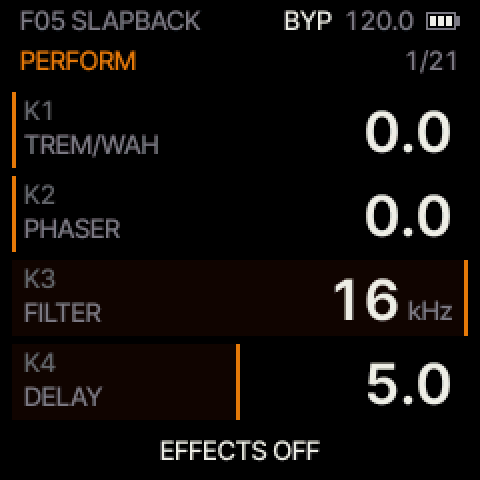
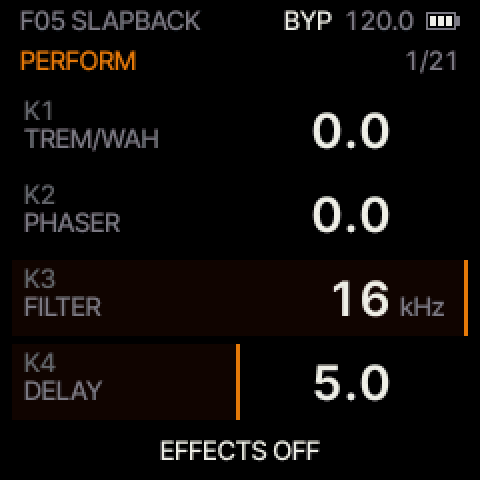
UI: design A is the default (fader fill, selector blocks, switch light), the value face 24 px with room to breathe
The user picked A at 24 px from sizes-A.png, then: "font need to breathe but like the design".
- CC 11's default is 3 (A): amounts the FADER fill (the edge never crosses text), selectors one block per option lit
  up to the option (over 16 options only the blocks' caps), ON / OFF a lit dot / a ring. CC 11 keeps 0 (the rows
  before the design pass), 1 FADER, 2 LINE, 4 B (pips), 5 C (BACK) for comparing on the FM-1 (not saved).
- The large face is 24 px by default (aatext.c UI_VAL_PX; 25 and 28 still build); the 28 px AF_L leaves the image.
- Breathing room (UI_BREATHE, on with 24 px): +0.75 px between the value's letters (aatext.c AA_L_TRACK16, the
  large face only: values, the TYPE flash, the splash), the value 4 px further from the right edge (right margin
  12 px), the unit 5 px after the number (was 3), 14 px at least between the label and the value (was 12). The
  rows keep 38 px (4 cards + header + footer fill the 240 px): the 24 px capitals already have 10 px above and below.
  Compared in private/ui-simplify/design-pass/breathe.png (tools/cards_sheet.py --breathe).
- Short forms now (fitscan): only on ASSIGN: TREM/WAH -> TRM/WAH, COMP MKUP -> CMP GAIN, TREM RATE -> TRM RATE,
  TREM SHAPE -> TRM SHP, PHA SPEED -> PHA SPD, PHA FEEDBK -> PHA FDBK, CHO SPEED -> CHO SPD, DLY FEEDBK -> DLY FDBK;
  every TYPE name in full.
- Merged main (beb976e: 9 voices, the All Notes Off fixes); README conflict resolved (9 voices + the new card text).
[…]

diff --git a/tests/py/test_ui_cards.py b/tests/py/test_ui_cards.py
@@ -36,18 +36,23 @@ W, RH = 228, 38                                                   # ui.c RW_W, R
 STYLE = {1: {"amount": "F", "select": "F", "toggle": "F"}, 2: {"amount": "L", "select": "L", "toggle": "L"},
          3: {"amount": "F", "select": "S", "toggle": "D"}, 4: {"amount": "F", "select": "P", "toggle": "D"},
          5: {"amount": "F", "select": "S", "toggle": "B"}}
-# every value written in its short form (ui.c CD_LONG / CD_SHORT) at 28 px: (page, label, short form)
-SHORT = {("FRODHES", "TYPE", "FELT"), ("FRODHES", "TYPE", "DYNO")} | {("ASSIGN", "PLAYS", s) for s in
-                                          ("TRM/WAH", "CMP THR", "CMP GAIN", "TRM RATE", "TRM SHP", "PHA SPD",
-                                           "PHA FDBK", "CHO SPD", "DLY FDBK")}
+# every value written in its short form (ui.c CD_LONG / CD_SHORT) in the default build (24 px, breathing):
+# (page, label, short form); the other sizes: no value that does not fit
+SHORT = {("ASSIGN", "PLAYS", s) for s in ("TRM/WAH", "CMP GAIN", "TRM RATE", "TRM SHP", "PHA SPD", "PHA FDBK",
+                                          "CHO SPD", "DLY FDBK")}
+DEF_PX = 24                                                       # aatext.c UI_VAL_PX
 KEYS = M.KEYS + [f"rowbox{k}" for k in range(4)] + ["cards"]
 SYNC_NAMES = {"1/32", "16T", "1/16", "8T", "16D", "1/8", "4T", "8D", "1/4", "4D", "1/2", "1/1", "2BAR", "4BAR"}
 LOOK_C = [False]
 
 
+def type_lines(cc_n, v):
+    return [cc(100, cc_n, v)]
+
+
 def binary(px):
-    """the host build with the large face at px (28: the normal one)"""
-    if px == 28:
+    """the host build with the large face at px (DEF_PX: the normal one)"""
+    if px == DEF_PX:
         hostrun.build()
         return hostrun.BIN
     b = os.path.join(hostrun.ROOT, "build", "host", f"frodhes_v{px}")
@@ -60,12 +65,12 @@ def binary(px):
     return b
 
 
-def run(tag, lines, end, px=28):
+def run(tag, lines, end, px=DEF_PX):
     return hostrun.run(tag, lines, end, binary=binary(px), check=False)
 
 
-def walk(tag, cc_n, v, variant, turns=None, look=None, px=28):
-    L, t, visits = [cc(50, 11, variant)] + ([cc(60, 2, look)] if look else []) + M.type_lines(cc_n, v), M.T0, []
+def walk(tag, cc_n, v, variant, turns=None, look=None, px=DEF_PX):
+    L, t, visits = [cc(50, 11, variant)] + ([cc(60, 2, look)] if look else []) + type_lines(cc_n, v), M.T0, []
     for i in range(M.NWALK):
         if i:
             L.append(f"{t} turn 0 1"); t += M.STEP
@@ -228,7 +233,7 @@ def check_page(im, s, where, variant):
 _pages = {}
 
 
-def pages(name, cc_n, v, variant, px=28):
+def pages(name, cc_n, v, variant, px=DEF_PX):
     key = (name, variant, px)
     if key not in _pages:
         _pages[key] = walk(f"cards{variant}_{px}_{name}", cc_n, v, variant, px=px)
@@ -250,26 +255,26 @@ def every_page(name, cc_n, v, variant, px):
 @pytest.mark.parametrize("variant", [1, 2, 3, 4, 5], ids=[NAMES[i] for i in range(1, 6)])
 @pytest.mark.parametrize("name,cc_n,v", TYPES3, ids=[t[0] for t in TYPES3])
 def test_cards_every_page(name, cc_n, v, variant):
-    """every page at its defaults, then with each knob turned (amounts +9, choices +1), 28 px"""
-    every_page(name, cc_n, v, variant, 28)
+    """every page at its defaults, then with each knob turned (amounts +9, choices +1), the default face"""
+    every_page(name, cc_n, v, variant, DEF_PX)
 
 
-@pytest.mark.parametrize("px", [25, 24])
+@pytest.mark.parametrize("px", [25, 28])
 @pytest.mark.parametrize("variant", [3, 4, 5], ids=["A", "B", "C"])
 @pytest.mark.parametrize("name,cc_n,v", [M.TYPES[2], M.TYPES[4]], ids=["FELT", "VIBE"])
 def test_cards_every_page_small_faces(name, cc_n, v, variant, px):
-    """the same at the smaller value faces (-10 %, -15 %)"""
+    """the same with the other value faces (25, 28 px)"""
     every_page(name, cc_n, v, variant, px)
 
 
-@pytest.mark.parametrize("px", [28, 24])
+@pytest.mark.parametrize("px", [24, 28])
 @pytest.mark.parametrize("variant", [1, 2, 3, 4, 5], ids=[NAMES[i] for i in range(1, 6)])
 def test_cards_every_choice_option(variant, px):
     """every choice card of both engines through every option: each drawn by its kind's rule at each option"""
     errs, n = [], 0
     for name, cc_n, v in (M.TYPES[0], M.TYPES[4]):
         ps = pages(name, cc_n, v, variant, px)
-        L, t, marks = [cc(50, 11, variant)] + M.type_lines(cc_n, v), M.T0, []
+        L, t, marks = [cc(50, 11, variant)] + type_lines(cc_n, v), M.T0, []
         for i, (_, _, s) in enumerate(ps):
             if i:
                 L.append(f"{t} turn 0 1"); t += 400
@@ -326,16 +331,14 @@ def test_cards_other_looks(variant, look):
 @pytest.mark.parametrize("variant", [1, 3, 4, 5])
 def test_fitscan(variant, px):
     """every value of every card (every TYPE, the switches as they are and all on, the synced note values) fits the
-    large face, the LED's place too; the short forms used are SHORT (28 px; the smaller faces need fewer)"""
+    large face, the LED's place too; the short forms used are SHORT in the default build"""
     r = run(f"cards_fitscan{variant}_{px}", [cc(50, 11, variant), f"{M.T0} expect state fitscan 0"], M.T0 + 50, px)
     bad = re.findall(r"^FITSCAN BAD (.*)$", r.out, re.M)
     assert not bad, sorted(set(bad))[:40]
     assert 'ok   expect state fitscan' in r.out, r.out[-2000:]
     got = set(re.findall(r"^FITSCAN SHORT (\S+)(?: \d)? K\d (.+?) = (.+?) -?\d+ -?\d+$", r.out, re.M))
-    if px == 28:
+    if px == DEF_PX:
         assert got == SHORT, (sorted(got - SHORT), sorted(SHORT - got))
-    else:
-        assert got <= SHORT, sorted(got - SHORT)
     print(f"{NAMES[variant]} {px} px short forms: {sorted(got)}")
 
 
@@ -344,7 +347,7 @@ def test_cards_hot_frame(variant):
     """turn K1..K4 on REVERB one at a time: that row alone framed with an amber label while turned, none at 1.5 s"""
     ps = pages("ST77", 80, 8, variant)
     pos = [M.title_of(s) for _, _, s in ps].index("REVERB")
-    L, t = [cc(50, 11, variant)] + M.type_lines(80, 8), M.T0
+    L, t = [cc(50, 11, variant)] + type_lines(80, 8), M.T0
     for _ in range(pos):
         L.append(f"{t} turn 0 1"); t += 100
     t += 500
@@ -375,7 +378,7 @@ def test_cards_hot_frame(variant):
     assert not errs, "\n".join(errs)
 
 
-def test_default_is_today():
-    """no CC 11: the rows as today (cards 0)"""
-    r = run("cards_default", [f"{M.T0} expect state cards 0"], M.T0 + 50)
+def test_default_is_a():
+    """no CC 11: A (cards 3), the user's pick"""
+    r = run("cards_default", [f"{M.T0} expect state cards 3"], M.T0 + 50)
     assert 'ok   expect state cards' in r.out, r.out[-1500:]

diff --git a/firmware/src/ui.c b/firmware/src/ui.c
@@ -205,20 +205,21 @@ static const mt_look_t MT_LOOKS[] = {
 static uint8_t ui_look;                                 /* developer CC 2 (not saved) */
 /* the design pass (2026-10-18, private/ui-simplify/design-pass/): the rows' typography and meter, three variants for
  * the user to choose from; developer CC 11 (not saved), the default by build (APP_DEFS=-DUI_CARDS_DEF=n):
- *   0 TODAY   the rows as they are (the default until the user picks);
+ *   0 TODAY   the rows before the design pass (kept for comparing on the FM-1);
  *   1 FADER   the row's amber fill (the METERS look) on every card, a choice's too (its option's place in its list,
  *             OFF empty); one value size, one value edge, one baseline; the fill's bright edge stops 3 px short of
  *             any text (above and below it), so nothing crosses a digit or a letter; no edge at 0;
  *   2 LINE    the same typography with no fill: a 3 px meter line along each row's bottom, amber for the amount;
  * then the card kinds told apart at a glance (the user: "not clear what is a toggle or selector and what is a fader"),
  * an amount always the FADER fill:
- *   3 A       selectors SEGMENTS (one block per option, 2 px apart, lit up to the option), toggles LED (a dot before
+ *   3 A       THE DEFAULT (the user's pick, 2026-10-18): selectors SEGMENTS (one block per option, 2 px apart, lit up to the option), toggles LED (a dot before
  *             ON / OFF: lit ON, a ring OFF);
  *   4 B       selectors PIPS (one small pip per option under the value, the option's amber), toggles LED;
  *   5 C       selectors SEGMENTS, toggles BACK (the whole card lit ON, nothing OFF, no edge).
- * The large face's size is the build's (aatext.c UI_VAL_PX: 28, 25, 24). */
+ * The large face's size is the build's (aatext.c UI_VAL_PX: 24 the default, 25, 28), and its breathing room
+ * (UI_BREATHE: 1 the default, 0 the tighter first version). */
 #ifndef UI_CARDS_DEF
-#define UI_CARDS_DEF 0
+#define UI_CARDS_DEF 3
 #endif
 #define UI_CARDS_N 6u
 static uint8_t ui_cards = UI_CARDS_DEF;
@@ -771,13 +772,13 @@ static void draw_row(uint32_t k)
  *     fraction);
  *   - the turned knob: its label in the accent and the 1 px frame (HOT_MS), as today. */
 #define CD_PAD 6                                        /* the text's margin on the left */
-#define CD_PAD_R 10                                     /* and on the right (after the unit column) */
+#define CD_PAD_R (UI_BREATHE ? 12 : 10)                 /* and on the right (after the unit column) */
 #define CD_UNIT_W 22                                    /* the unit column: "kHz" in AF_S */
-#define CD_UGAP 3
-#define CD_VR ((int32_t)RW_W - CD_PAD_R - CD_UNIT_W - CD_UGAP)   /* 193: where every value ends */
+#define CD_UGAP (UI_BREATHE ? 5 : 3)                    /* between the number and its unit */
+#define CD_VR ((int32_t)RW_W - CD_PAD_R - CD_UNIT_W - CD_UGAP)   /* where every value ends (189; 193 tight) */
 #define CD_BASE (((int32_t)RW_H + AF_L_CAP_H + 1) / 2)  /* the baseline of the label, the value and the unit: the
                                                          * capitals centred in the row (28 px: 30, 25: 29, 24: 28) */
-#define CD_GAP 12                                       /* the least room between the label and the value */
+#define CD_GAP (UI_BREATHE ? 14 : 12)                   /* the least room between the label and the value */
 #define CD_KEEP 3                                       /* FADER: the edge stops this far from any text */
 #define CD_MINSEG 3                                     /* FADER: an edge piece shorter than this is left out */
 #define CD_LINE_H 3                                     /* LINE: the meter line, rows 34 .. 36 (37: the frame) */

diff --git a/tools/cards_sheet.py b/tools/cards_sheet.py
@@ -5,6 +5,8 @@ same pages, in the framebuffer's own colours (tools/manual_shots.py's default), 
 build per size: -DUI_VAL_PX=28 / 25 / 24, aatext.c).
 
   tools/cards_sheet.py [OUT_DIR]     (default private/ui-simplify/design-pass)
+  tools/cards_sheet.py --breathe [OUT_DIR]   only breathe.png: A at 24 px, the tight first version (UI_BREATHE=0)
+                                             next to the breathing one (the default)
 
 Writes to OUT_DIR:
   sheet-<combo>-<px>px.png     the ten pages, one combination at one size (A = SEGMENTS + LED, B = PIPS + LED,
@@ -40,16 +42,17 @@ def font(px):
     return ImageFont.truetype(os.path.join(ROOT, "assets", "fonts", "InterTight[wght].ttf"), px)
 
 
-def host(px):
-    b = os.path.join(ROOT, "build", "host", f"frodhes_v{px}")
+def host(px, breathe=1):
+    b = os.path.join(ROOT, "build", "host", f"frodhes_v{px}" + ("" if breathe else "_tight"))
     subprocess.run(["cc", "-O2", "-Wall", "-Wno-unused-function", "-DDINGHY_HOST", "-DAPP_VER=\"dev\"", f"-DUI_VAL_PX={px}",
-                    "-Ifirmware/src", "-Ifirmware/gen", "-o", b, "firmware/src/frodhes.c", "-lm"], cwd=ROOT, check=True)
+                    f"-DUI_BREATHE={breathe}", "-Ifirmware/src", "-Ifirmware/gen", "-o", b, "firmware/src/frodhes.c",
+                    "-lm"], cwd=ROOT, check=True)
     return b
 
 
-def shoot(n, px):
-    out = os.path.join(ROOT, "build", "design", f"c{n}-{px}")
-    env = dict(os.environ, FRODHES_HOST_BIN=host(px))
+def shoot(n, px, breathe=1):
+    out = os.path.join(ROOT, "build", "design", f"c{n}-{px}" + ("" if breathe else "-tight"))
+    env = dict(os.environ, FRODHES_HOST_BIN=host(px, breathe))
     subprocess.run([sys.executable, os.path.join(ROOT, "tools", "manual_shots.py"), "--cards", str(n), "--out", out],
                    check=True, capture_output=True, env=env)
     return out
@@ -67,9 +70,28 @@ def grid(ims, cols, caps, title, w=480):
     return o
 
 
+BREATHE = [("piano", "FRODHES (Rhodes)"), ("piano-vibes", "FRODHES (VIBES)"), ("voice1-vibes", "VIBES VOICE 1/3")] + CHOICES
+
+
+def breathe(dst):
+    """breathe.png: A at 24 px, the tight first version (UI_BREATHE=0) next to the breathing one"""
+    tight, air = shoot(3, 24, 0), shoot(3, 24, 1)
+    ims, caps = [], []
+    for p, c in BREATHE:
+        for d, t in ((tight, "now"), (air, "breathing")):
+            ims.append(Image.open(os.path.join(d, f"{p}.png")).convert("RGB")); caps.append(f"{c}: {t}")
+    grid(ims, 4, caps, "A at 24 px: now | breathing (+0.75 px between the value's letters, the value 4 px further "
+         "in, the unit 2 px further out, 14 px after the label)").save(os.path.join(dst, "breathe.png"))
+
+
 def main():
-    dst = os.path.abspath(sys.argv[1] if len(sys.argv) > 1 else os.path.join(ROOT, "private", "ui-simplify", "design-pass"))
+    args = [a for a in sys.argv[1:] if not a.startswith("--")]
+    dst = os.path.abspath(args[0] if args else os.path.join(ROOT, "private", "ui-simplify", "design-pass"))
     os.makedirs(dst, exist_ok=True)
+    if "--breathe" in sys.argv:
+        breathe(dst)
+        print(os.path.join(dst, "breathe.png"))
+        return
     src = {}
 
     def get(n, tag, px, page):

diff --git a/firmware/src/aatext.c b/firmware/src/aatext.c
@@ -22,6 +22,17 @@ typedef struct {
 /* the design pass (2026-10-18, the user: "a big font but some margin, maybe 10 % smaller, maybe 15"): a build may set
  * the large face's size, APP_DEFS=-DUI_VAL_PX=25 (-10 %) or 24 (-15 %); the face replaces AF_L everywhere (one large
  * face in the image: AF_L's tables then drop out). Generated by gen_aa_font.py --value-px N. */
+#ifndef UI_VAL_PX
+#define UI_VAL_PX 24                    /* the default since 2026-10-18 (the user picked A at 24 px) */
+#endif
+/* the large face's breathing room (the user: "font need to breathe"): +0.75 px between its letters (AA_L_TRACK16, in
+ * 1/16 px), and in ui.c more room around the value; UI_BREATHE=0 builds the tighter first version (the comparison) */
+#ifndef UI_BREATHE
+#define UI_BREATHE (UI_VAL_PX == 24)        /* (the 25 / 28 px builds keep the tight room: their values need it) */
+#endif
+#ifndef AA_L_TRACK16
+#define AA_L_TRACK16 (UI_BREATHE ? 12 : 0)
+#endif
 #if defined(UI_VAL_PX) && UI_VAL_PX == 25
 #include "aa_font_v25.h"
 #define AF_L AF_V25
@@ -207,7 +218,7 @@ static int32_t aa_text_w(const aafont_t *f, const char *s)
     uint32_t prev = 0;
     for (; *s; s++) {
         uint32_t c = aa_fold(f, (uint8_t)*s);
-        if (prev) pen += aa_kern(f, prev, c);
+        if (prev) pen += aa_kern(f, prev, c) + (f == &AF_L ? AA_L_TRACK16 : 0);   /* (the large face: tracked) */
         pen += f->g[aa_glyph(f, c)].adv;
         prev = c;
     }
@@ -226,7 +237,7 @@ static int32_t aa_text(int32_t x, int32_t y, const aafont_t *f, const char *s, u
         uint32_t c = aa_fold(f, (uint8_t)*s);
         const aag_t *g;
         int32_t pos, d0, d1;
-        if (prev) pen += aa_kern(f, prev, c);
+        if (prev) pen += aa_kern(f, prev, c) + (f == &AF_L ? AA_L_TRACK16 : 0);   /* (the large face: tracked) */
         g = &f->g[aa_glyph(f, c)];
         if (f->psh && g[1].off != g->off) {
             pos = pen - (pen & (step - 1));

diff --git a/tests/py/test_ui_meters.py b/tests/py/test_ui_meters.py
@@ -54,7 +54,7 @@ ROW_X0, ROW_X1, ROW_Y0, ROW_DY, ROW_H = 6, 233, 46, 42, 38      # plan §2: x 6-
 LABEL_X1 = 90                                                     # the labels end before x 90 (where amber is looked for)
 VALUE_XR = ROW_X0 + 220                                           # ui.c draw_row: values right-aligned at row x 220
 # a choice's option written in the small face (too wide for the large one next to its label): (page, label, value)
-SMALL_OK = {("ASSIGN", "PLAYS", "TREM SHAPE")}                    # 170 px in the large face, 167 px free
+SMALL_OK = set()                                                  # (28 px: TREM SHAPE; the 24 px face fits all)
 T0, STEP, NWALK = 2500, 600, 30                                   # after the start screen and the TYPE message
 PROBE = "~"
 KEYS = (["title", "count", "page", "vpage", "hint", "hot"] + [f"row{k}" for k in range(4)] + [f"label{k}" for k in range(4)]
@@ -99,7 +99,7 @@ def row_face(s):
 
 
 def type_lines(cc_n, v):
-    return [cc(100, cc_n, v)]
+    return [cc(90, 11, 0), cc(100, cc_n, v)]                       # today's rows (developer CC 11 0; the default is A)
 
 
 def walk(tag, cc_n, v, turns=None, look=None):

diff --git a/tests/py/test_ui_types.py b/tests/py/test_ui_types.py
@@ -50,4 +50,4 @@ def test_type_names_same_size():
         names = re.findall(r'expect state card.2.0 = "~" \(is "([^"]*)"\)', out)
         assert names == ["STAGE 77", "SUITCASE", "EARLY FELT", "BELL DYNO", "VIBES"], names
         assert len(rows) == len(sel) and all(r.split()[0] == "choice" and r.split()[-1] == "L" for r in rows), rows
-        assert heights[0] >= 18, heights                                # the large face (~20 px), not the small
+        assert heights[0] >= 16, heights                                # the large face (24 px: ~18), not the small

diff --git a/docs/MANUAL.md b/docs/MANUAL.md
@@ -61,15 +61,24 @@ have two VOICE pages (VOICE 1/2: TONE, BARK, BELL, HAMMER; VOICE 2/2: DECAY, REL
 order; changing the TYPE changes the pages with it.
 
 **Reading a card.** Each card shows its knob (K1–K4, small), the control's name, and its value on the right in large
-figures, with the unit beside it in small letters (Hz, kHz, ms, dB, c for cents, x). Then, by the kind of control:
+figures, every value the same size and ending at the same place, with the unit beside it in small letters (Hz, kHz,
+ms, s, dB, c for cents, %). What is drawn behind the value tells you at a glance what kind of control it is:
 
-- **An amount** (DEPTH, MIX, a time, a frequency ...): the card itself is the gauge. It fills with dim amber from the
-  left up to the value, with a bright amber edge where the fill ends: empty at 0, full at the top.
-- **A choice** (TYPE, EFFECT, ON / OFF, a note value, a scale, a chord type ...): no fill; the option it is on is
-  written out in full on the right, in the same large letters as a number (**STAGE 77**, **LP18**, **ON**, **1/16**),
-  and changes as you turn. (The one name too long for its card, ASSIGN's **TREM SHAPE**, is written smaller.)
-- **A knob with named spots** (VIBES' STRIKE: CENTRE, L/3, EDGE; MALLET: SOFT, YARN, CORD, RUBBER): a fill like an
-  amount, with the name when the knob is on one, else the number between two of them.
+- **An amount** (DEPTH, MIX, a time, a frequency ...): the card is a fader. It fills with dim amber from the left up
+  to the value, with a bright amber edge where the fill ends (the edge stops short of the letters, so it never cuts a
+  number): empty at 0, full at the top.
+- **A selector** (TYPE, EFFECT DIG / ANA, a filter type, a note value, a scale, a chord type ...): the card is cut
+  into one block per option, and the blocks light up to the option it is on, each with a small cap at its foot (amber
+  lit, grey not); the option is written out in full (**STAGE 77**, **LP18**, **1/16**). An option called OFF lights no
+  block. With more than 16 options (MIDI CHANNEL, ASSIGN) only the caps are drawn, as a ruler. A rate or a time synced
+  to the tempo is a selector too: its note value.
+- **A switch** (ON / OFF: an effect on its page, the motor, TRS IN): a round light before the word, amber when ON, an
+  empty ring when OFF.
+- **A knob with named spots** (VIBES' STRIKE: CENTRE, L/3, EDGE; MALLET: SOFT, YARN, CORD, RUBBER): a fader, with the
+  name when the knob is on one, else the number between two of them.
+
+A few names too long for their card are written shorter, in the same large letters: on ASSIGN **TRM/WAH**, **TRM
+RATE**, **TRM SHP**, **PHA SPD**, **PHA FDBK**, **CHO SPD**, **DLY FDBK**, **CMP GAIN** (the compressor's make-up).
 
 **The card you are turning** gets a thin amber frame and its name turns amber, for about a second after you stop.
 The numbers are rounded to what fits on the card (1.486 s shows 1.5 s, +11.8 dB shows +12 dB).
@@ -663,7 +672,7 @@ The TRS jack is MIDI in only. **Program Change** 0–13 loads F01–F14, 16–31
 | 70 / 74 | FILTER TYPE (7 bands: off, LP12, LP18, HP12, HP18, BP, notch) / CUTOFF | 71 / 72 | FILTER RESONANCE / LFO AMOUNT |
 | 75 / 76 | LFO SHAPE (6 bands) / RATE | 77 / 78 | LFO SYNC / RETRIG (free, key) |
 | 3 | Developer: a colour test pattern on the screen (≥ 64; < 64 back to the page), to calibrate screenshots against the panel | 2 | Developer: the screen's colour candidate, for choosing on the FM-1: 0 = A black (the default), 1 = B dim outline, 2 (or more) = C model-matched; not saved |
-| 11 | Developer: the rows' design variant, for choosing on the FM-1: 0 = today's rows (the default), 1 = FADER (the row fill on every card, one value size, the fill's edge never crosses text), 2 = LINE (one value size, a thin meter line under each row); then the card kinds told apart (amounts the fill): 3 = A (selectors in blocks, ON / OFF a lit dot), 4 = B (selectors as pips under the value, ON / OFF a lit dot), 5 (or more) = C (selectors in blocks, ON lights the whole card); not saved | | |
+| 11 | Developer: the cards' design, for comparing on the FM-1 (not saved): 3 = the normal look (faders, selector blocks, switch lights); 0 = the rows before the design pass (a choice written large, no fill), 1 = a fill on every card, 2 = a thin meter line under each row, 4 = selectors as small pips under the value, 5 (or more) = a switch lights its whole card | | |
 | 52 / 53 | ARP MODE (0 off, 1 up, 2 down, 3 up-dn, 4 order, 5 random) / RATE (0–5: 1/4 … 1/32) | 54 / 55 | ARP OCTAVES (0–3 = 1–4) / GATE (10–100 %) |
 
 The FM-1 also appears as a USB audio input (class-compliant, stereo, 16-bit, 44.1 or 48 kHz): you can record exactly
